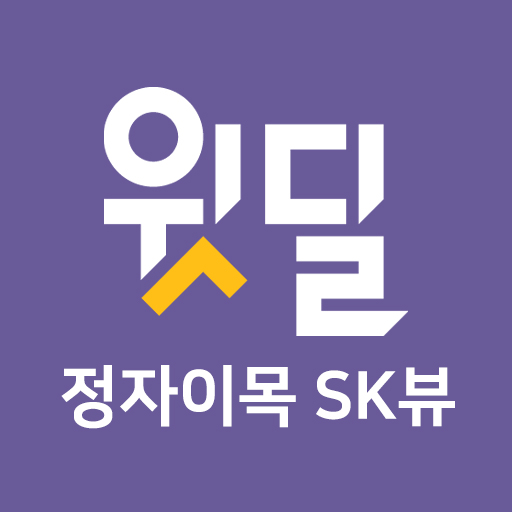
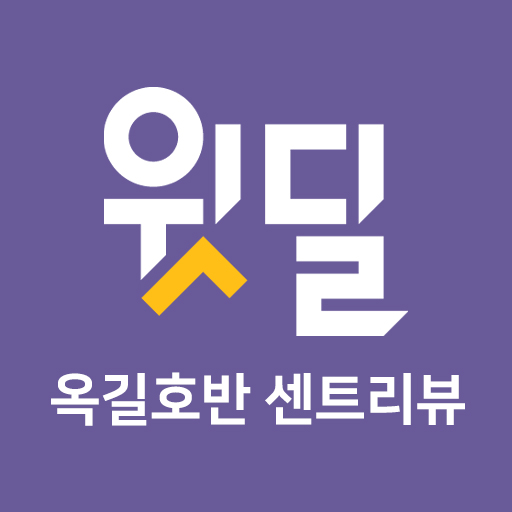
fix

Changed region(s): [[0.0938, 0.6875, 0.9062, 0.8438]]

diff --git a/App.js b/App.js
@@ -19,9 +19,9 @@ import notifee, {EventType} from '@notifee/react-native';
 import Share from 'react-native-share';
 import RefreshController from './src/refreshController';
 
-const baseUrl = 'https://witdeal-067.members.markets';
-const andoridId = 'com.orora.jjemskview'; // 정자이목 SK뷰
-const iosId = '6752551624'; // 정자이목 SK뷰
+const baseUrl = 'https://witdeal-066.members.markets';
+const andoridId = 'com.orora.okgilhbstrv'; // 옥길호반 센트리뷰
+const iosId = '6752551499'; // 옥길호반 센트리뷰
 
 const Webview = ({myWebWiew, onScroll = () => {}}) => {
   const [sourceUrl, setsourceUrl] = useState(baseUrl);

diff --git a/android/app/src/main/java/com/tenpercent/MainActivity.java b/android/app/src/main/java/com/tenpercent/MainActivity.java
@@ -1,4 +1,4 @@
-package com.orora.jjemskview;
+package com.orora.okgilhbstrv;
 
 
 import android.os.Bundle;

diff --git a/android/app/src/main/java/com/tenpercent/MainApplication.java b/android/app/src/main/java/com/tenpercent/MainApplication.java
@@ -1,4 +1,4 @@
-package com.orora.jjemskview;
+package com.orora.okgilhbstrv;
 
 
 

diff --git a/README.md b/README.md
@@ -3,11 +3,11 @@
 ### 1. 프로젝트 ID 변경
 
 - com.orora.\*
-  com.orora.jjemskview
+  com.orora.okgilhbstrv
 
-6752551624
-정자이목 SK뷰
-https://witdeal-067.members.markets
+6752551499
+옥길호반 센트리뷰
+https://witdeal-066.members.markets
 
 ### 앱 아이콘 변경
 
@@ -22,15 +22,15 @@ node \_script/icon
 ---
 
 윗딜브로스 모바일웹
-https://witdeal-067.members.markets/app/set/privacy.php
-https://witdeal-067.members.markets/app/set/set.php
+https://witdeal-066.members.markets/app/set/privacy.php
+https://witdeal-066.members.markets/app/set/set.php
 
 태성
 김
 ororapf@naver.com
 +82-1661-0339
 
-https://witdeal-067.members.markets
+https://witdeal-066.members.markets
 
 34778DGAUJ
 
